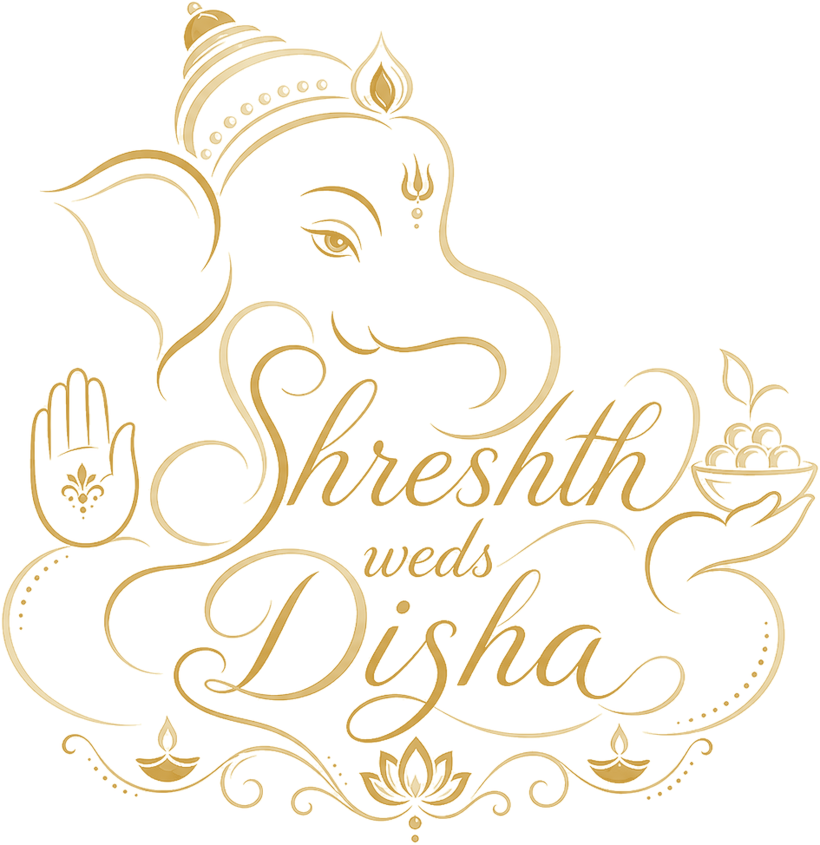
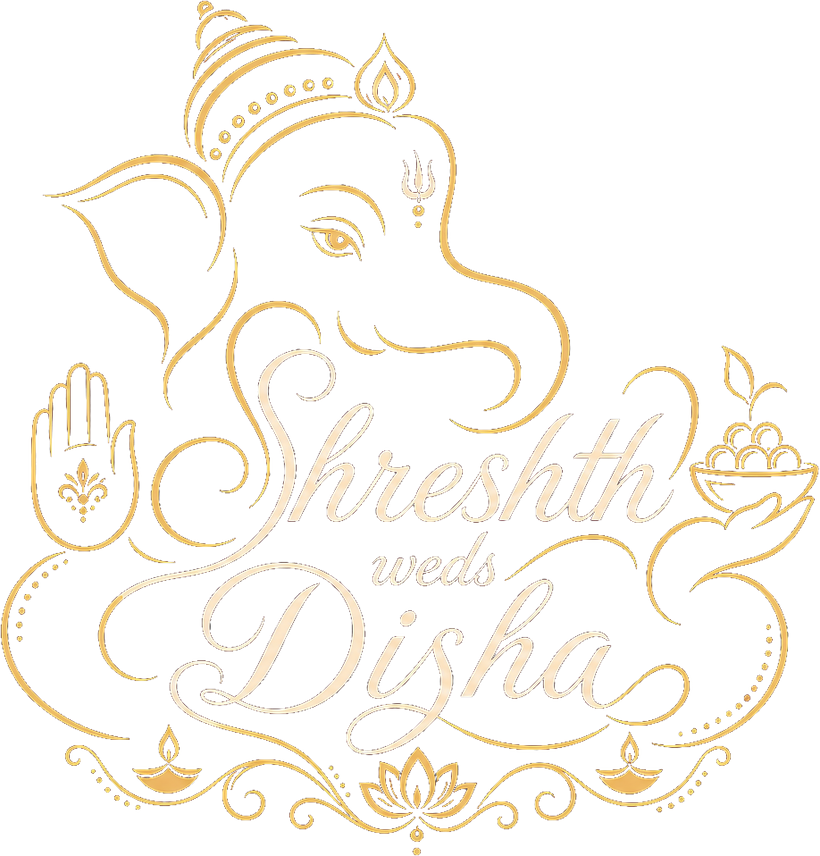
Regenerate calligraphy: gold Ganesha, ivory names, clean transparency

Changed region(s): [[0.0, 0.0, 1.0, 1.0], [0.0305, 0.8, 0.061, 0.8308]]

diff --git a/wedding-invite/index.html b/wedding-invite/index.html
@@ -59,7 +59,7 @@
     <div class="hero__veil"></div>
     <div class="hero__inner reveal">
       <h1 class="hero__monogram">
-        <img class="hero__art" src="assets/ganesha-calligraphy.png?v=1" alt="Shreshth weds Disha" width="540" height="556" />
+        <img class="hero__art" src="assets/ganesha-calligraphy.png?v=2" alt="Shreshth weds Disha" width="540" height="564" />
       </h1>
       <div class="hero__date">
         <span>A celebration from</span>
